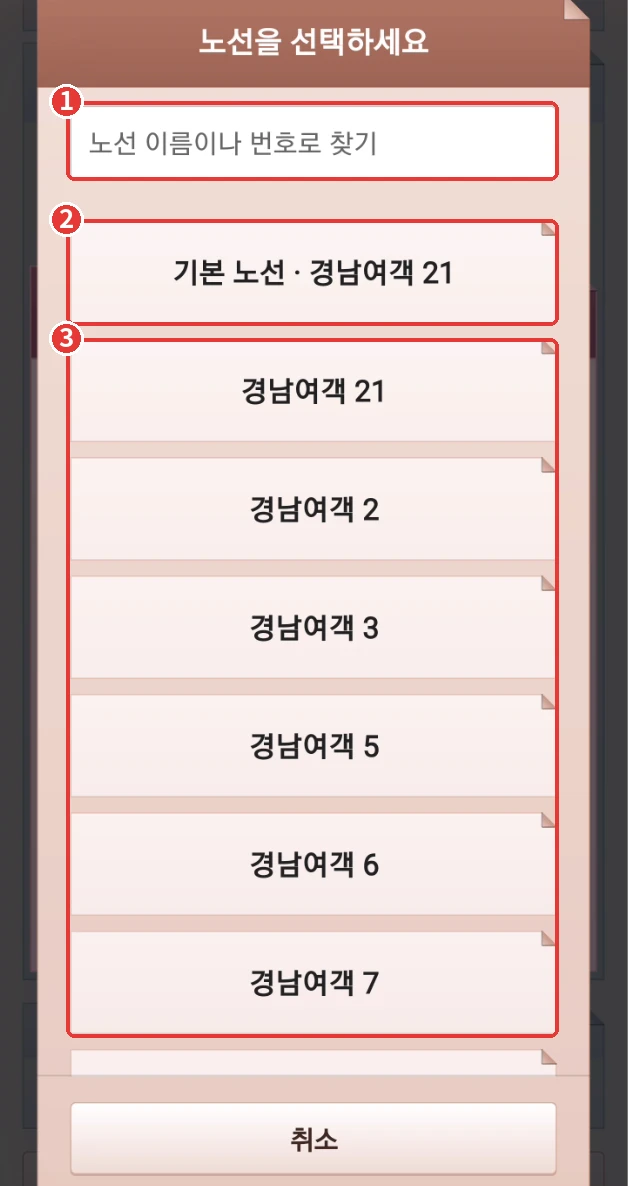
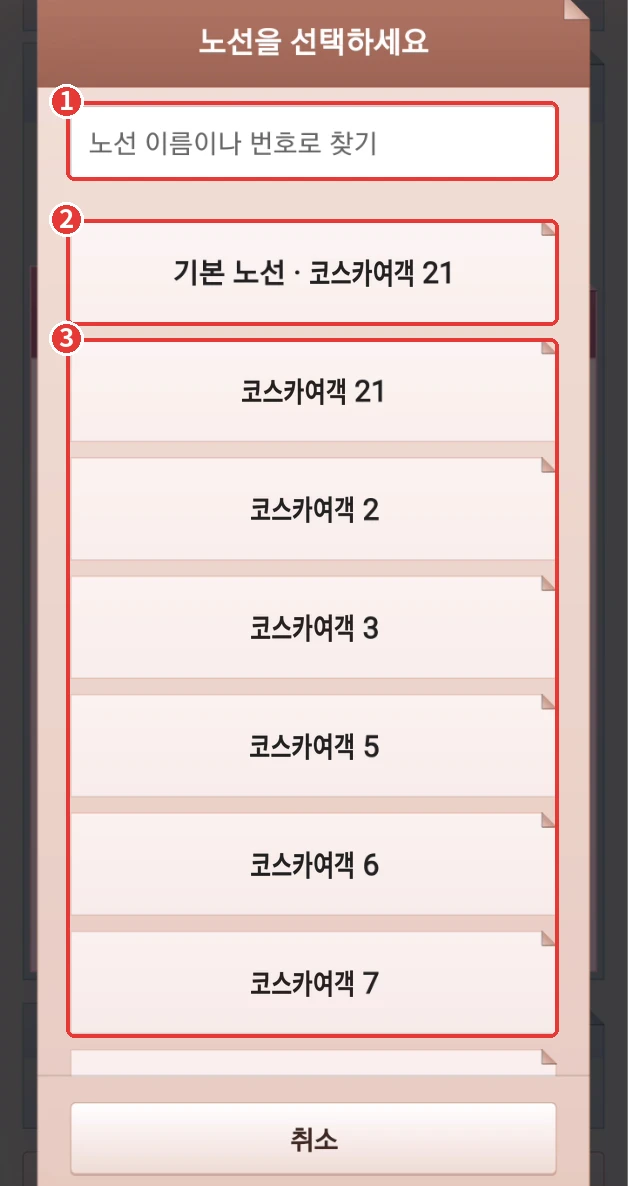
도움말 그림 속 경남을 코스카로 모두 바꿈, 도움말 글 예시도
Claude-Session: https://claude.ai/code/session_01JGfLuGmZYRQAxt4oYnNUhR

diff --git a/help/main.html b/help/main.html
@@ -33,7 +33,7 @@ ol{padding-left:0;list-style-position:inside}
 <div class="card"><h2>연필 단추를 누르면 (그날만 기상 바꾸기)</h2><img src="img/help_main_3.webp" alt="연필 단추를 누르면 (그날만 기상 바꾸기)"><div class="figtext"><p>① 그날만 첫 출발 몇 분 전에 깨울지 − · + 로 정합니다.</p><p>② 지우기 : 둘째부터 다섯째 알람을 뺍니다.</p><p>③ 알람 추가 : 다섯 개까지 둘 수 있습니다.</p><p>④ 저장을 눌러야 바뀝니다. 그만두기는 바꾸지 않고 닫습니다.</p><p>바꾼 날은 연필 단추 바탕이 파랗게 됩니다. 다시 열어 &#x27;설정값으로&#x27;를 누르면 되돌아갑니다.</p></div></div>
 <div class="card"><h2>차 번호 단추를 누르면</h2><img src="img/help_main_4.webp" alt="차 번호 단추를 누르면"><div class="figtext"><p>① 새 번호 넣기 : 처음 타는 차 번호를 적어 목록에 담습니다.</p><p>② 목록에서 지우기 : 담아 둔 번호를 뺍니다.</p><p>③ 노선 기본 번호 : 이 노선에서 늘 타는 차 번호로 정합니다. 번호를 따로 넣지 않은 날에 이 번호가 보입니다.</p><p>④ 담아 둔 번호를 누르면 그날 차 번호로 바로 들어갑니다.</p></div></div>
 <div class="card"><h2>메뉴에서 들어간 화면의 맨 위</h2><img src="img/help_main_5.webp" alt="메뉴에서 들어간 화면의 맨 위"><div class="figtext"><p>① 메뉴 : 사이드 메뉴를 엽니다. 사이드 메뉴 맨 위 &#x27;홈으로&#x27;로 첫 화면에 갑니다.</p><p>② 이전으로 : 바로 앞 화면으로 돌아갑니다. 휴대폰의 뒤로 가기와 같습니다.</p></div></div>
-<div class="card"><h2>자세한 설명</h2><ul><li>오늘 시간표와 다음 순서(다음 알림 시각과 남은 시간)를 보여 줍니다.</li><li>이전·다음으로 다른 날을 보고, 가운데 제목을 누르면 오늘로 돌아옵니다. 시간표를 옆으로 밀어도 하루씩 넘어갑니다.</li><li>호차를 누르면 그날 그 호차로 알림이 걸립니다.</li><li>기상 줄 : 기상 시각을 둘 이상 정해 두면 옆 칸(기점부터 휴식 칸까지 다섯 칸)에 이른 것부터 차례로 보이고, 울린 칸부터 흐려집니다.</li><li>기상 줄 맨 왼쪽 연필 단추 : 그날만 기상 시각을 다섯 개까지 바꿉니다. 바꾼 날은 연필 단추 바탕이 파랗게 보이고, &#x27;설정값으로&#x27;를 누르면 되돌아갑니다.</li><li>오늘 내용 수정 : 누르면 창이 뜹니다. 호차, 휴무·공휴일·평일로 그날을 바꿀 수 있습니다.</li><li>회차 맨 왼쪽 체크 : 그날 그 회차를 끄고 켭니다. 누를 때마다 끌지·켤지 한 번 더 묻습니다.</li><li>노선 바꾸기 : 그날 하루만 다른 노선으로 바꿉니다. 목록 맨 위 &#x27;기본 노선&#x27;을 고르면 기본 노선으로 돌아갑니다.</li><li>처음 시작할 때 할 일이 남아 있으면 맨 위에 &#x27;처음 시작할 때 할 일 ○개 남음&#x27; 띠가 뜹니다. 누르면 할 일 화면으로 갑니다.</li><li>알람에 필요한 설정이 꺼져 있으면 맨 위에 빨간 띠 &#x27;권한 설정이 끝나지 않았습니다&#x27;와 꺼진 것들이 한 줄씩 뜹니다. 누르면 권한 점검으로 갑니다. 알림 창에도 같은 알림이 뜹니다.</li><li>앱 전체를 중지해 두면 맨 위에 빨간 띠 &#x27;앱 전체 중지 중&#x27;이 뜹니다. 누르면 바로 다시 켜집니다.</li><li>알림 설정에서 끈 알림이 있으면 맨 위에 빨간 띠 &#x27;○○ 알림이 울리지 않습니다&#x27;가 뜹니다. 누르면 알림 설정으로 갑니다.</li><li>회차 사이가 짧아 앞 알람과 겹쳐 알람 시간을 줄인 날은 맨 위에 초록 줄 &#x27;앞 알람과 겹쳐 알람 시간을 자동으로 줄였습니다&#x27;가 뜨고, 줄인 알람의 칸 오른쪽 위에 작은 주황 세모가 붙습니다. 초록 줄을 누르면 어느 회차의 어느 알람을 몇 분으로 줄였는지 보입니다. 중간 도착보다 먼저 울리게 되어 중간 도착 안내에 합친 중간 출발 알람도 이 목록에 &#x27;중간 도착 안내에 합침&#x27;으로 보입니다(자세한 것은 알림 설정 도움말의 &#x27;중간 도착과 중간 출발이 가까울 때&#x27;).</li><li>공휴일 시간표가 있는 노선을 새로 넣으면 맨 위에 빨간 띠 &#x27;공휴일 설정을 확인하세요&#x27;가 뜹니다. 누르면 공휴일 설정으로 가고, 보고 나오면 사라집니다.</li><li>표의 칸은 회차 · 기점 · 중간 도착 · 중간 출발 · 종점 · 휴식입니다. 중간 도착 알림은 알림 설정에서 켜면 울립니다. 중간 도착과 중간 출발이 다르면 두 칸이 주황으로 보이고, 두 칸 사이 아래쪽에 쉬는 분이 주황 바탕 작은 숫자로 보입니다. 지난 줄은 흐려집니다.</li><li>다른 노선으로 다니는 회차(예: 14번 노선의 14-1번 회차)는 회 칸 &#x27;4회&#x27; 아래에 노선 이름이 작게 붙고, 그 줄의 회·기점·중간 도착·중간 출발·종점 글씨가 초록 굵은 글씨로 바뀝니다(휴식 칸은 그대로). 지난 칸은 다른 칸처럼 흐린 회색이 됩니다. 잠금 화면 시간표와 다른 노선표 보기도 같습니다.</li><li>노선 목록(시간표 작성의 저장된 노선, 노선 바꾸기, 다른 노선표 보기)은 기본 노선이 맨 위, 나머지는 가나다 순입니다. 회사 이름이 같으면 번호를 &#x27;경남여객 2번, 경남여객 3번, 경남여객 10-4번&#x27;처럼 수의 크기 순으로 놓습니다.</li><li>노선 목록 맨 위 검색 칸에 이름이나 번호를 치면 그 글자가 들어간 노선만 남습니다. 빈칸과 &#x27;번&#x27; 글자는 빼고 찾으므로 &#x27;94 2&#x27;로 &#x27;94번 2대&#x27;를 찾을 수 있습니다.</li><li>메뉴 : 첫 화면 맨 위 왼쪽, 다른 화면 맨 위 초록 띠 왼쪽 끝의 &#x27;메뉴&#x27;를 누르면 왼쪽에서 사이드 메뉴가 나옵니다. 어느 화면에서든 열 수 있습니다.</li><li>사이드 메뉴 맨 위 &#x27;홈으로&#x27; : 지나온 화면을 모두 닫고 첫 화면으로 갑니다. 저장하지 않고 고치던 화면이 있으면 먼저 저장할지 묻습니다.</li><li>화면 맨 위 초록 띠 오른쪽 끝 &#x27;이전으로&#x27; : 바로 앞 화면으로 갑니다. 누를 때마다 지나온 화면을 하나씩 거슬러 갑니다.</li><li>사이드 메뉴로 이미 지나온 화면을 다시 고르면 새로 열지 않고 뒤에 있던 그 화면을 앞으로 가져옵니다. 같은 화면이 두 번 쌓이지 않습니다.</li><li>쓸어 내리기 : 화면이 맨 위에 올라가 있을 때 화면 가운데쯤에서 아래로 길게 쓸어 내리면, 첫 화면에서는 달력이 열리고 다른 화면에서는 첫 화면으로 갑니다. 맨 위에 &#x27;놓으면 ○○&#x27; 띠가 보일 때 손을 떼면 됩니다. 덜 끌었거나 도로 올리면 아무 일도 없습니다.</li><li>다른 앱에 가 있거나 화면을 끈 지 10분이 넘은 뒤 다시 열면 첫 화면이 보입니다. 저장하지 않고 고치던 화면이 있으면 그대로 둡니다.</li><li>잠금 화면 시간표를 켜 두면 알림창에 다음 순서, 시각, 노선·호차·차 번호, 남은 시간이 보입니다. 줄이 길면 &#x27;5호·1649&#x27;처럼 줄여 보입니다. 알림을 펼치면 그다음 순서와 오늘 몇 회차가 지났는지, 오늘 마지막 시각도 보입니다.</li></ul></div>
+<div class="card"><h2>자세한 설명</h2><ul><li>오늘 시간표와 다음 순서(다음 알림 시각과 남은 시간)를 보여 줍니다.</li><li>이전·다음으로 다른 날을 보고, 가운데 제목을 누르면 오늘로 돌아옵니다. 시간표를 옆으로 밀어도 하루씩 넘어갑니다.</li><li>호차를 누르면 그날 그 호차로 알림이 걸립니다.</li><li>기상 줄 : 기상 시각을 둘 이상 정해 두면 옆 칸(기점부터 휴식 칸까지 다섯 칸)에 이른 것부터 차례로 보이고, 울린 칸부터 흐려집니다.</li><li>기상 줄 맨 왼쪽 연필 단추 : 그날만 기상 시각을 다섯 개까지 바꿉니다. 바꾼 날은 연필 단추 바탕이 파랗게 보이고, &#x27;설정값으로&#x27;를 누르면 되돌아갑니다.</li><li>오늘 내용 수정 : 누르면 창이 뜹니다. 호차, 휴무·공휴일·평일로 그날을 바꿀 수 있습니다.</li><li>회차 맨 왼쪽 체크 : 그날 그 회차를 끄고 켭니다. 누를 때마다 끌지·켤지 한 번 더 묻습니다.</li><li>노선 바꾸기 : 그날 하루만 다른 노선으로 바꿉니다. 목록 맨 위 &#x27;기본 노선&#x27;을 고르면 기본 노선으로 돌아갑니다.</li><li>처음 시작할 때 할 일이 남아 있으면 맨 위에 &#x27;처음 시작할 때 할 일 ○개 남음&#x27; 띠가 뜹니다. 누르면 할 일 화면으로 갑니다.</li><li>알람에 필요한 설정이 꺼져 있으면 맨 위에 빨간 띠 &#x27;권한 설정이 끝나지 않았습니다&#x27;와 꺼진 것들이 한 줄씩 뜹니다. 누르면 권한 점검으로 갑니다. 알림 창에도 같은 알림이 뜹니다.</li><li>앱 전체를 중지해 두면 맨 위에 빨간 띠 &#x27;앱 전체 중지 중&#x27;이 뜹니다. 누르면 바로 다시 켜집니다.</li><li>알림 설정에서 끈 알림이 있으면 맨 위에 빨간 띠 &#x27;○○ 알림이 울리지 않습니다&#x27;가 뜹니다. 누르면 알림 설정으로 갑니다.</li><li>회차 사이가 짧아 앞 알람과 겹쳐 알람 시간을 줄인 날은 맨 위에 초록 줄 &#x27;앞 알람과 겹쳐 알람 시간을 자동으로 줄였습니다&#x27;가 뜨고, 줄인 알람의 칸 오른쪽 위에 작은 주황 세모가 붙습니다. 초록 줄을 누르면 어느 회차의 어느 알람을 몇 분으로 줄였는지 보입니다. 중간 도착보다 먼저 울리게 되어 중간 도착 안내에 합친 중간 출발 알람도 이 목록에 &#x27;중간 도착 안내에 합침&#x27;으로 보입니다(자세한 것은 알림 설정 도움말의 &#x27;중간 도착과 중간 출발이 가까울 때&#x27;).</li><li>공휴일 시간표가 있는 노선을 새로 넣으면 맨 위에 빨간 띠 &#x27;공휴일 설정을 확인하세요&#x27;가 뜹니다. 누르면 공휴일 설정으로 가고, 보고 나오면 사라집니다.</li><li>표의 칸은 회차 · 기점 · 중간 도착 · 중간 출발 · 종점 · 휴식입니다. 중간 도착 알림은 알림 설정에서 켜면 울립니다. 중간 도착과 중간 출발이 다르면 두 칸이 주황으로 보이고, 두 칸 사이 아래쪽에 쉬는 분이 주황 바탕 작은 숫자로 보입니다. 지난 줄은 흐려집니다.</li><li>다른 노선으로 다니는 회차(예: 14번 노선의 14-1번 회차)는 회 칸 &#x27;4회&#x27; 아래에 노선 이름이 작게 붙고, 그 줄의 회·기점·중간 도착·중간 출발·종점 글씨가 초록 굵은 글씨로 바뀝니다(휴식 칸은 그대로). 지난 칸은 다른 칸처럼 흐린 회색이 됩니다. 잠금 화면 시간표와 다른 노선표 보기도 같습니다.</li><li>노선 목록(시간표 작성의 저장된 노선, 노선 바꾸기, 다른 노선표 보기)은 기본 노선이 맨 위, 나머지는 가나다 순입니다. 회사 이름이 같으면 번호를 &#x27;코스카여객 2번, 코스카여객 3번, 코스카여객 10-4번&#x27;처럼 수의 크기 순으로 놓습니다.</li><li>노선 목록 맨 위 검색 칸에 이름이나 번호를 치면 그 글자가 들어간 노선만 남습니다. 빈칸과 &#x27;번&#x27; 글자는 빼고 찾으므로 &#x27;94 2&#x27;로 &#x27;94번 2대&#x27;를 찾을 수 있습니다.</li><li>메뉴 : 첫 화면 맨 위 왼쪽, 다른 화면 맨 위 초록 띠 왼쪽 끝의 &#x27;메뉴&#x27;를 누르면 왼쪽에서 사이드 메뉴가 나옵니다. 어느 화면에서든 열 수 있습니다.</li><li>사이드 메뉴 맨 위 &#x27;홈으로&#x27; : 지나온 화면을 모두 닫고 첫 화면으로 갑니다. 저장하지 않고 고치던 화면이 있으면 먼저 저장할지 묻습니다.</li><li>화면 맨 위 초록 띠 오른쪽 끝 &#x27;이전으로&#x27; : 바로 앞 화면으로 갑니다. 누를 때마다 지나온 화면을 하나씩 거슬러 갑니다.</li><li>사이드 메뉴로 이미 지나온 화면을 다시 고르면 새로 열지 않고 뒤에 있던 그 화면을 앞으로 가져옵니다. 같은 화면이 두 번 쌓이지 않습니다.</li><li>쓸어 내리기 : 화면이 맨 위에 올라가 있을 때 화면 가운데쯤에서 아래로 길게 쓸어 내리면, 첫 화면에서는 달력이 열리고 다른 화면에서는 첫 화면으로 갑니다. 맨 위에 &#x27;놓으면 ○○&#x27; 띠가 보일 때 손을 떼면 됩니다. 덜 끌었거나 도로 올리면 아무 일도 없습니다.</li><li>다른 앱에 가 있거나 화면을 끈 지 10분이 넘은 뒤 다시 열면 첫 화면이 보입니다. 저장하지 않고 고치던 화면이 있으면 그대로 둡니다.</li><li>잠금 화면 시간표를 켜 두면 알림창에 다음 순서, 시각, 노선·호차·차 번호, 남은 시간이 보입니다. 줄이 길면 &#x27;5호·1649&#x27;처럼 줄여 보입니다. 알림을 펼치면 그다음 순서와 오늘 몇 회차가 지났는지, 오늘 마지막 시각도 보입니다.</li></ul></div>
 <a class="btn" href="index.html">다른 도움말 보기</a>
 </body>
 </html>
